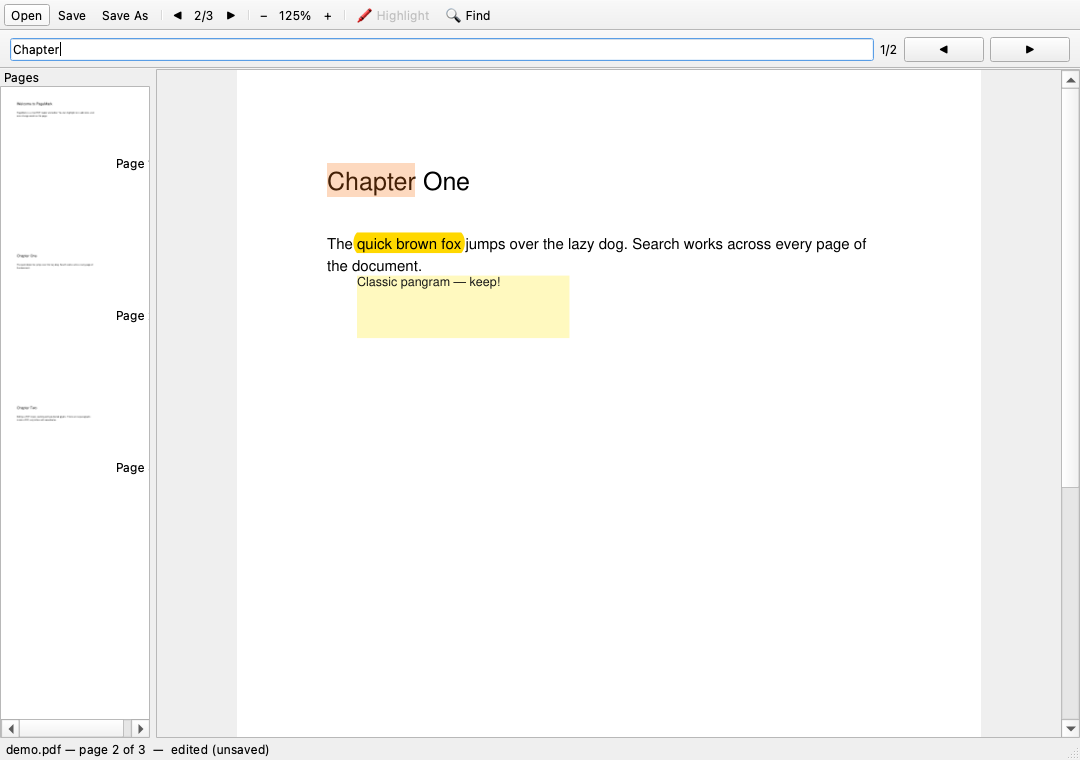
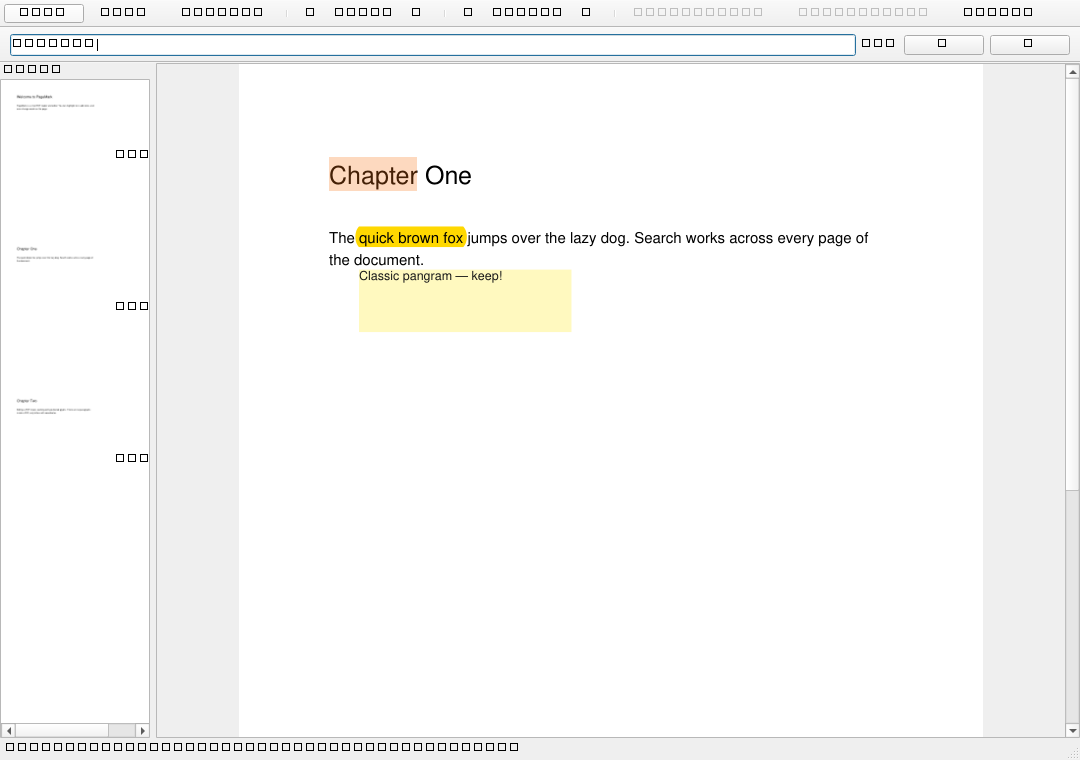
feat(pagemark): make text editing discoverable
The edit feature existed but was hidden behind an unhinted double-click.
- toolbar ✏ Edit text (Ctrl+E) replaces the selected text
- startup placeholder + post-open status tip explain the gestures
- double-click on empty space now says why nothing happened
- PdfDocument.close() so scripts can delete files Windows keeps locked

diff --git a/projects/pdf-reader/app_window.py b/projects/pdf-reader/app_window.py
@@ -29,6 +29,7 @@ class MainWindow(QMainWindow):
         self.setCentralWidget(self.page_view)
         self.page_view.selection_made.connect(self.on_selection)
         self.page_view.word_double_clicked.connect(self.on_edit_word)
+        self.page_view.word_missed.connect(self.on_word_missed)
         self.page_view.note_point_chosen.connect(self.on_add_note)
 
         self.thumbnails = QListWidget()
@@ -80,6 +81,10 @@ class MainWindow(QMainWindow):
         self.highlight_action = self._action("🖍 Highlight", self.on_highlight, "Ctrl+H")
         self.highlight_action.setEnabled(False)
         bar.addAction(self.highlight_action)
+        self.edit_action = self._action("✏ Edit text", self.on_edit_selection, "Ctrl+E")
+        self.edit_action.setEnabled(False)
+        self.edit_action.setToolTip("Replace the selected text (or double-click a word)")
+        bar.addAction(self.edit_action)
         bar.addAction(self._action("🔍 Find", self.toggle_search, "Ctrl+F"))
 
     def _build_search_bar(self):
@@ -107,6 +112,9 @@ class MainWindow(QMainWindow):
         self.search_bar.set_document(self.doc)
         self._fill_thumbnails()
         self._refresh_status()
+        self.status.showMessage(
+            "Double-click a word to edit it  ·  drag to select, then 🖍 highlight"
+            " or ✏ replace  ·  right-click adds a note", 10000)
 
     def save(self):
         if self.doc:
@@ -157,15 +165,35 @@ class MainWindow(QMainWindow):
         self.selection = rect
         self.highlight_action.setEnabled(True)
         selected = self.doc.text_in_rect(self.page_view.current_index, rect)
-        self.status.showMessage(f'Selected: "{selected[:60]}"' if selected else "")
+        self.edit_action.setEnabled(bool(selected))
+        self.status.showMessage(
+            f'Selected: "{selected[:60]}" — 🖍 to highlight, ✏ to replace'
+            if selected else "Selection has no text — 🖍 still highlights the area")
 
     def on_highlight(self):
         if self.doc and self.selection:
             self.doc.add_highlight(self.page_view.current_index, [self.selection])
-            self.selection = None
-            self.highlight_action.setEnabled(False)
-            self.page_view.clear_selection()
+            self._clear_selection()
             self._refresh_status()
+
+    def on_edit_selection(self):
+        if not (self.doc and self.selection):
+            return
+        page = self.page_view.current_index
+        old_text = self.doc.text_in_rect(page, self.selection)
+        new_text, ok = QInputDialog.getText(
+            self, "Edit text", "Replace selection with:", text=old_text)
+        if ok and new_text != old_text:
+            self.doc.replace_text(page, self.selection, new_text)
+            self._clear_selection()
+            self.page_view.refresh()
+            self._refresh_status()
+
+    def _clear_selection(self):
+        self.selection = None
+        self.highlight_action.setEnabled(False)
+        self.edit_action.setEnabled(False)
+        self.page_view.clear_selection()
 
     def on_edit_word(self, rect, word):
         new_text, ok = QInputDialog.getText(
@@ -174,6 +202,10 @@ class MainWindow(QMainWindow):
             self.doc.replace_text(self.page_view.current_index, rect, new_text)
             self.page_view.refresh()
             self._refresh_status()
+
+    def on_word_missed(self):
+        self.status.showMessage(
+            "No editable text under the cursor — scanned pages have none", 5000)
 
     def on_add_note(self, point):
         text, ok = QInputDialog.getMultiLineText(self, "Add note", "Note:")

diff --git a/projects/pdf-reader/tests/test_gui.py b/projects/pdf-reader/tests/test_gui.py
@@ -41,3 +41,33 @@ def test_search_jumps_to_hit_page(qapp, sample_pdf):
     window.search_bar.field.setText("glyphs")      # only on page 3
     window.search_bar.go_next()
     assert window.page_view.current_index == 2
+
+
+def test_selecting_text_enables_edit_and_replaces_it(qapp, sample_pdf, monkeypatch):
+    import app_window
+    from app_window import MainWindow
+
+    window = MainWindow()
+    window.load_path(sample_pdf)
+    [(page, rect)] = window.doc.search("quick brown fox")
+    window.go_to_page(page)
+
+    assert not window.edit_action.isEnabled()
+    window.on_selection((rect.x0, rect.y0, rect.x1, rect.y1))
+    assert window.edit_action.isEnabled()
+
+    monkeypatch.setattr(app_window.QInputDialog, "getText",
+                        staticmethod(lambda *a, **k: ("slow green fox", True)))
+    window.on_edit_selection()
+    text = window.doc.page_text(page)
+    assert "slow green fox" in text and "quick brown fox" not in text
+    assert not window.edit_action.isEnabled()      # selection consumed
+
+
+def test_double_click_on_empty_space_reports_no_text(qapp, sample_pdf):
+    from app_window import MainWindow
+
+    window = MainWindow()
+    window.load_path(sample_pdf)
+    window.page_view.word_missed.emit()
+    assert "No editable text" in window.status.currentMessage()

diff --git a/projects/pdf-reader/page_view.py b/projects/pdf-reader/page_view.py
@@ -17,6 +17,7 @@ class PageView(QScrollArea):
 
     selection_made = Signal(tuple)          # (x0, y0, x1, y1)
     word_double_clicked = Signal(tuple, str)
+    word_missed = Signal()                  # double-click found no text
     note_point_chosen = Signal(tuple)       # (x, y)
 
     def __init__(self):
@@ -27,7 +28,9 @@ class PageView(QScrollArea):
         self.hits = []                      # rects to outline on this page
         self._drag_start = None
         self._drag_rect = None
-        self.label = QLabel("Open a PDF to get started  (Ctrl+O)")
+        self.label = QLabel("Open a PDF to get started  (Ctrl+O)\n\n"
+                            "Double-click a word to edit it  ·  drag to select,"
+                            " then 🖍 highlight or ✏ replace  ·  right-click adds a note")
         self.label.setAlignment(Qt.AlignCenter)
         self.label.setMouseTracking(True)
         self.label.installEventFilter(self)
@@ -121,6 +124,8 @@ class PageView(QScrollArea):
                 rect, word = found
                 self.word_double_clicked.emit(
                     (rect.x0, rect.y0, rect.x1, rect.y1), word)
+            else:
+                self.word_missed.emit()
         elif kind == event.Type.ContextMenu:
             point = self._to_pdf(QPoint(event.pos()))
             if point:

diff --git a/projects/pdf-reader/pdf_document.py b/projects/pdf-reader/pdf_document.py
@@ -40,6 +40,10 @@ class PdfDocument:
         self.path = path
         self._dirty = False
 
+    def close(self):
+        """Release the underlying file (Windows locks it while open)."""
+        self._doc.close()
+
     def save(self):
         """Overwrite the original file safely (write a sibling, then swap)."""
         data = self._doc.tobytes()

diff --git a/projects/pdf-reader/scripts/screenshot.py b/projects/pdf-reader/scripts/screenshot.py
@@ -41,6 +41,7 @@ def main(out_dir):
     app.processEvents()
     window.grab().save(os.path.join(out_dir, "pagemark-search.png"))
 
+    window.doc.close()
     os.remove(sample)
     print(f"saved 2 screenshots to {out_dir}")
 